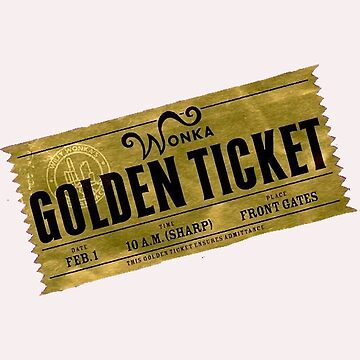
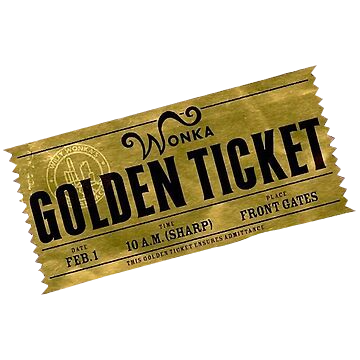
replace img chocolatefactory

diff --git a/page/chocolatefactory.html b/page/chocolatefactory.html
@@ -83,8 +83,7 @@
         </div>
       </div>
 
-      <img data-aos="fade-up" data-aos-delay="500" data-aos-duration="800"
-        src="../assets/png-clipart-yellow-ticket-illustration-willy-wonka-golden-ticket-others-miscellaneous-angle.png"
+      <img data-aos="fade-up" data-aos-delay="500" data-aos-duration="800" src="../assets/bilhete dourado.png"
         width="680px" data-aos-easing="ease-in-out" alt="" />
   </div>
 
